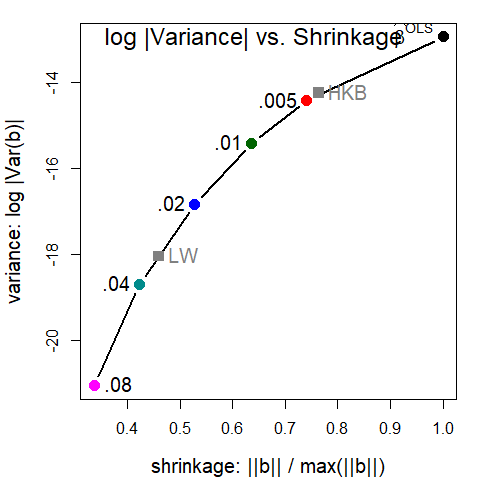
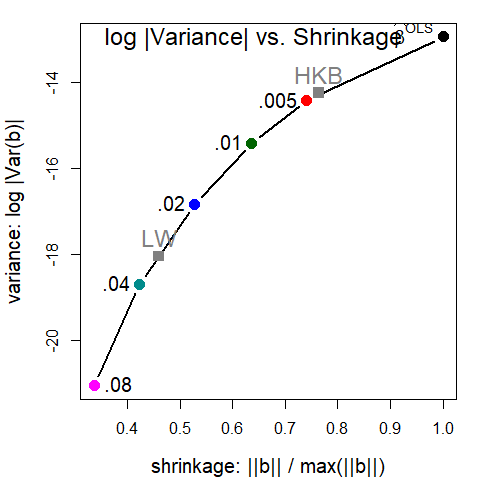
Improve README; ammend some examples

Changed region(s): [[0.5938, 0.125, 0.7812, 0.2188], [0.2812, 0.4688, 0.4062, 0.5625]]

diff --git a/README.md b/README.md
@@ -93,8 +93,8 @@ The following computational functions are provided:
   of class `"ridge"`
 - `pca.ridge()` Transform coefcients and covariance matrices to PCA/SVD
   space; returns an object of class `c("pcaridge", "ridge")`
-  `vif.ridge()` Calculates VIFs for “ridge” objects `precision()`
-  Calculates measures of precision and shrinkage
+- `vif.ridge()` Calculates VIFs for “ridge” objects
+- `precision()` Calculates measures of precision and shrinkage
 
 More importantly, the `ridge` functions also calculate and returns the
 associated covariance matrices of each of the ridge estimates, allowing
@@ -123,11 +123,11 @@ useful measures and plots.
 
 ## Installation
 
-|                     |                                                                             |
-|---------------------|-----------------------------------------------------------------------------|
-| CRAN version        | `install.packages("genridge")`                                              |
-| R-universe          | `install.packages("genridge", repos = c('https://friendly.r-universe.dev')` |
-| Development version | `remotes::install_github("friendly/genridge")`                              |
+|  |  |
+|----|----|
+| CRAN version | `install.packages("genridge")` |
+| R-universe | `install.packages("genridge", repos = c('https://friendly.r-universe.dev')` |
+| Development version | `remotes::install_github("friendly/genridge")` |
 
 ## Examples
 
@@ -259,9 +259,6 @@ corresponds to 6 degrees of freedom in the parameter space of six
 predictors.
 
 ``` r
-#' fig.width = 7,
-#' echo = -1
-par(mar=c(4, 4, 1, 1)+ 0.1)
 traceplot(lridge, X="df", xlim = c(4, 6.5))
 ```
 
@@ -345,10 +342,11 @@ precision(lridge)
 #> 0.080  0.080 4.128 -21.05  0.5873  0.2599    0.3373
 ```
 
-`norm.beta`, $||\mathbf{\beta}|| / \max{||\mathbf{\beta}||}$ is a
-measure of shrinkage, and `det`, $\log{| \text{Var}(\mathbf{\beta}) |}$,
-is a measure of variance. Plotting these against each other gives a
-direct view of the tradeoff.
+`norm.beta` $= ||\mathbf{\beta}|| / \max{||\mathbf{\beta}||}$ is a
+measure of shrinkage, and `det`
+$= \log{| \text{Var}(\mathbf{\beta}) |}$, is a measure of variance.
+Plotting these against each other gives a direct view of the tradeoff
+between bias and precision.
 
 ``` r
 pdat <- precision(lridge)
@@ -366,7 +364,7 @@ mod <- lm(cbind(det, norm.beta) ~ bs(lambda, df=5), data=pdat)
 x <- data.frame(lambda=c(lridge$kHKB, lridge$kLW))
 fit <- predict(mod, x)
 points(fit[,2:1], pch=15, col=gray(.50), cex=1.5)
-text(fit[,2:1], c("HKB", "LW"), pos=4, cex=1.25, col=gray(.50))
+text(fit[,2:1], c("HKB", "LW"), pos=3, cex=1.5, col=gray(.50))
 par(op)
 ```
 
@@ -377,8 +375,8 @@ par(op)
 Just as principal components analysis gives low-dimensional views of a
 data set, PCA can be useful to understand ridge regression.
 
-The `pca` method transforms a `ridge` object from parameter space, where
-the estimated coefficients are $\beta_k$ with covariance matrices
+The `pca` method transforms a `"ridge"` object from parameter space,
+where the estimated coefficients are $\beta_k$ with covariance matrices
 $\Sigma_k$, to the principal component space defined by the right
 singular vectors, $V$, of the singular value decomposition of the scaled
 predictor matrix, $X$.
@@ -478,7 +476,8 @@ vcdExtra::datasets(package="genridge")
 ## References
 
 Friendly, M. (2011). Generalized Ridge Trace Plots: Visualizing Bias
-*and* Precision with the `genridge` R package.
+*and* Precision with the `genridge` R package. SCS Seminar, Jan., 2011.
+Slides:
 [gentalk.pdf](http://euclid.psych.yorku.ca/datavis/papers/gentalk.pdf);
 [gentalk-2x2.pdf](http://euclid.psych.yorku.ca/datavis/papers/gentalk-2x2.pdf)
 

diff --git a/NEWS.md b/NEWS.md
@@ -1,6 +1,7 @@
 ## genridge 0.7.1 (2024-11-07)
 
 o Added links to gentalk.pdf
+o Improved README and fixed some examples
 
 ## genridge 0.7.0 (2023-07-31)
 
